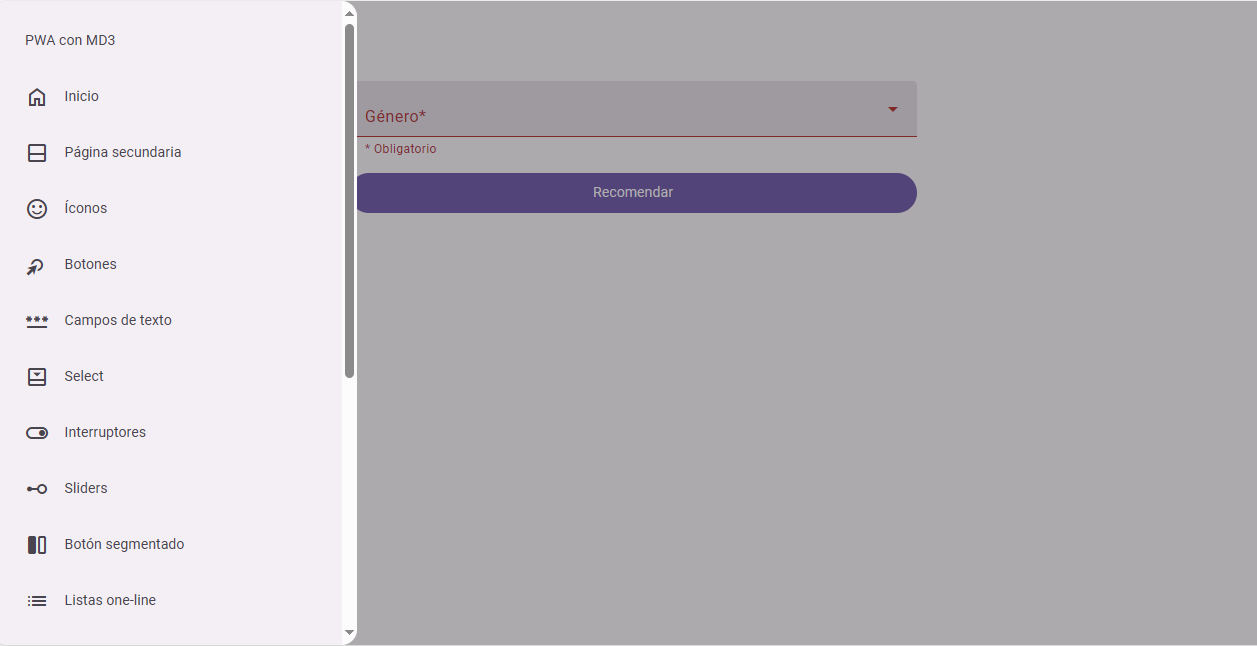
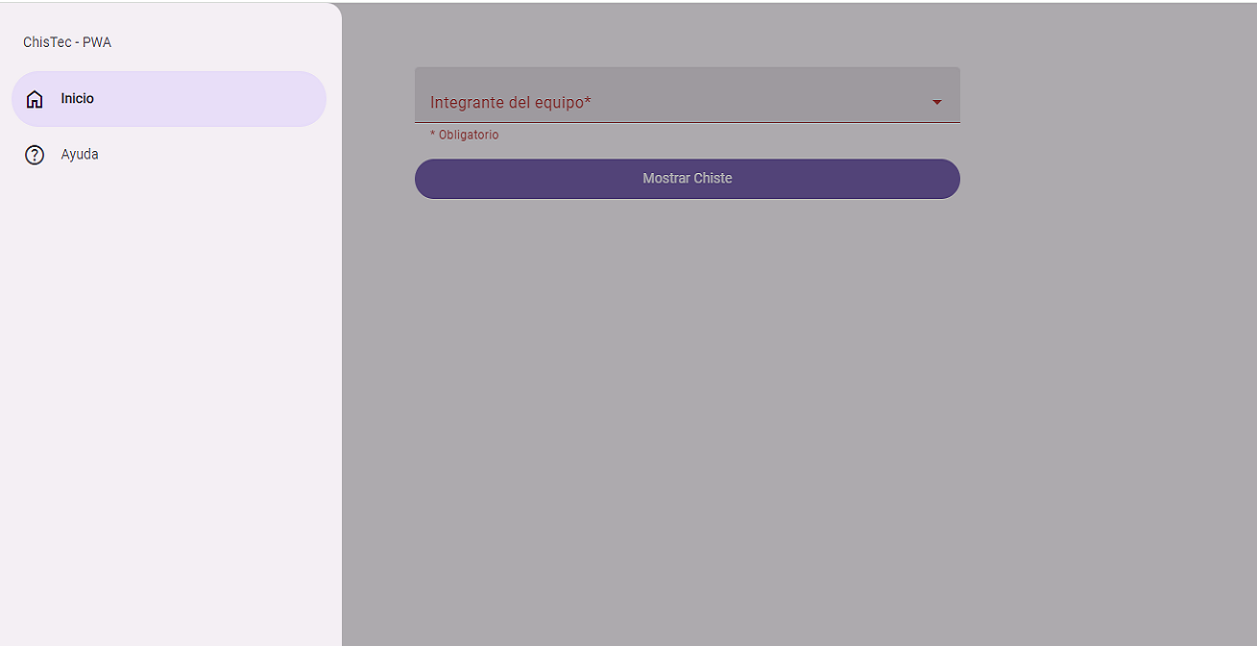
cambios

diff --git a/js/nav-drw.js b/js/nav-drw.js
@@ -8,7 +8,7 @@ export class NavDrw extends MdNavigationDrawer {
   */
  getHipervinculos() {
   return /* HTML */`
-   <h1>PWA con MD</h1>
+   <h1>ChisTec - PWA</h1>
 
    <a ${resaltaSiEstasEn(["/index.html", "", "/"])} href="index.html">
     <span class="material-symbols-outlined">home</span>

diff --git a/index.html b/index.html
@@ -7,7 +7,7 @@
    content="width=device-width">
 
  <title>
-  Formulario - PWA con MD
+  ChisTec
  </title>
 
  <meta name="theme-color"
@@ -34,7 +34,7 @@
 
   <md-top-app-bar>
 
-   <h1>Formulario con chistes</h1>
+   <h1>ChisTec</h1>
 
    <button is="md-menu-button"
      slot="navigation"
